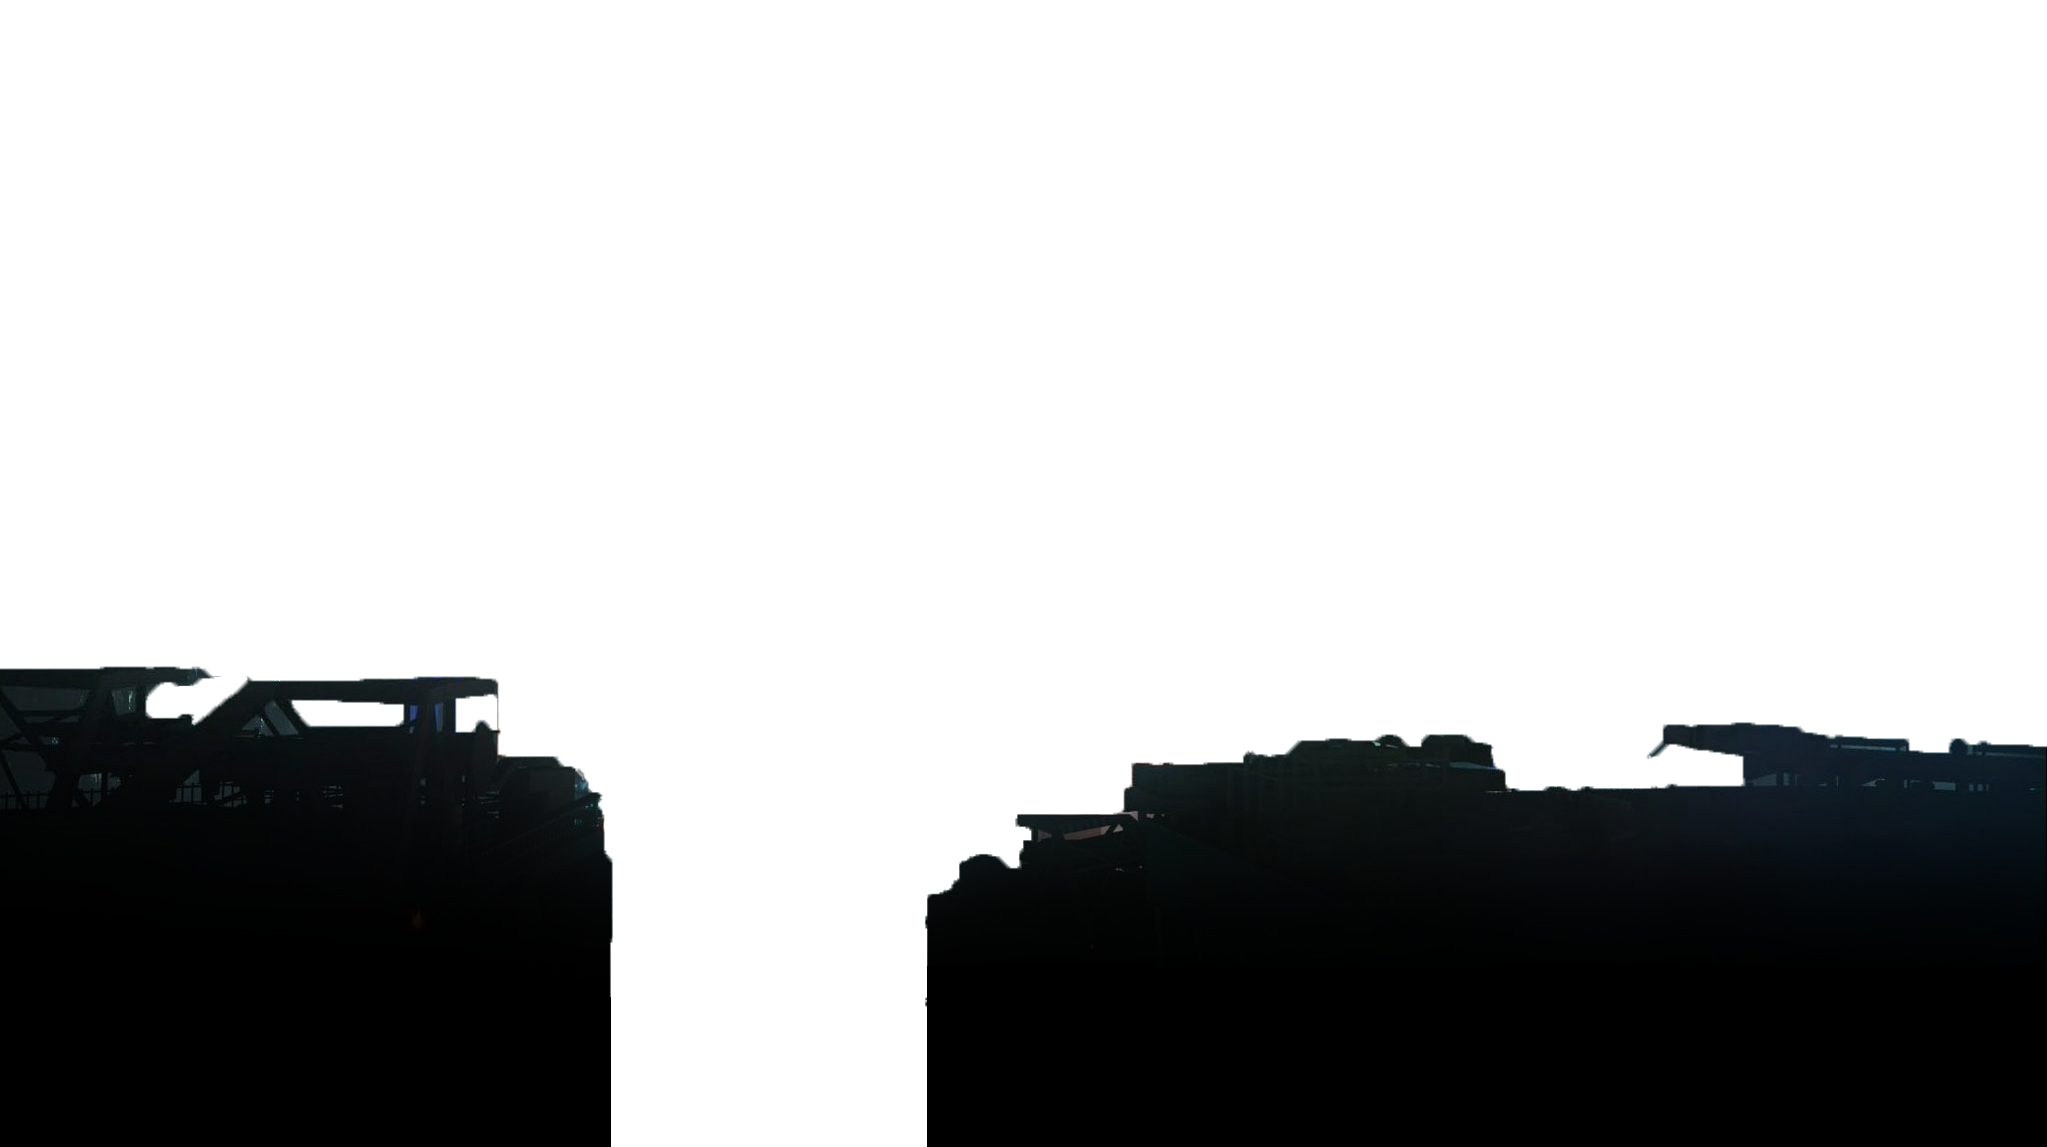
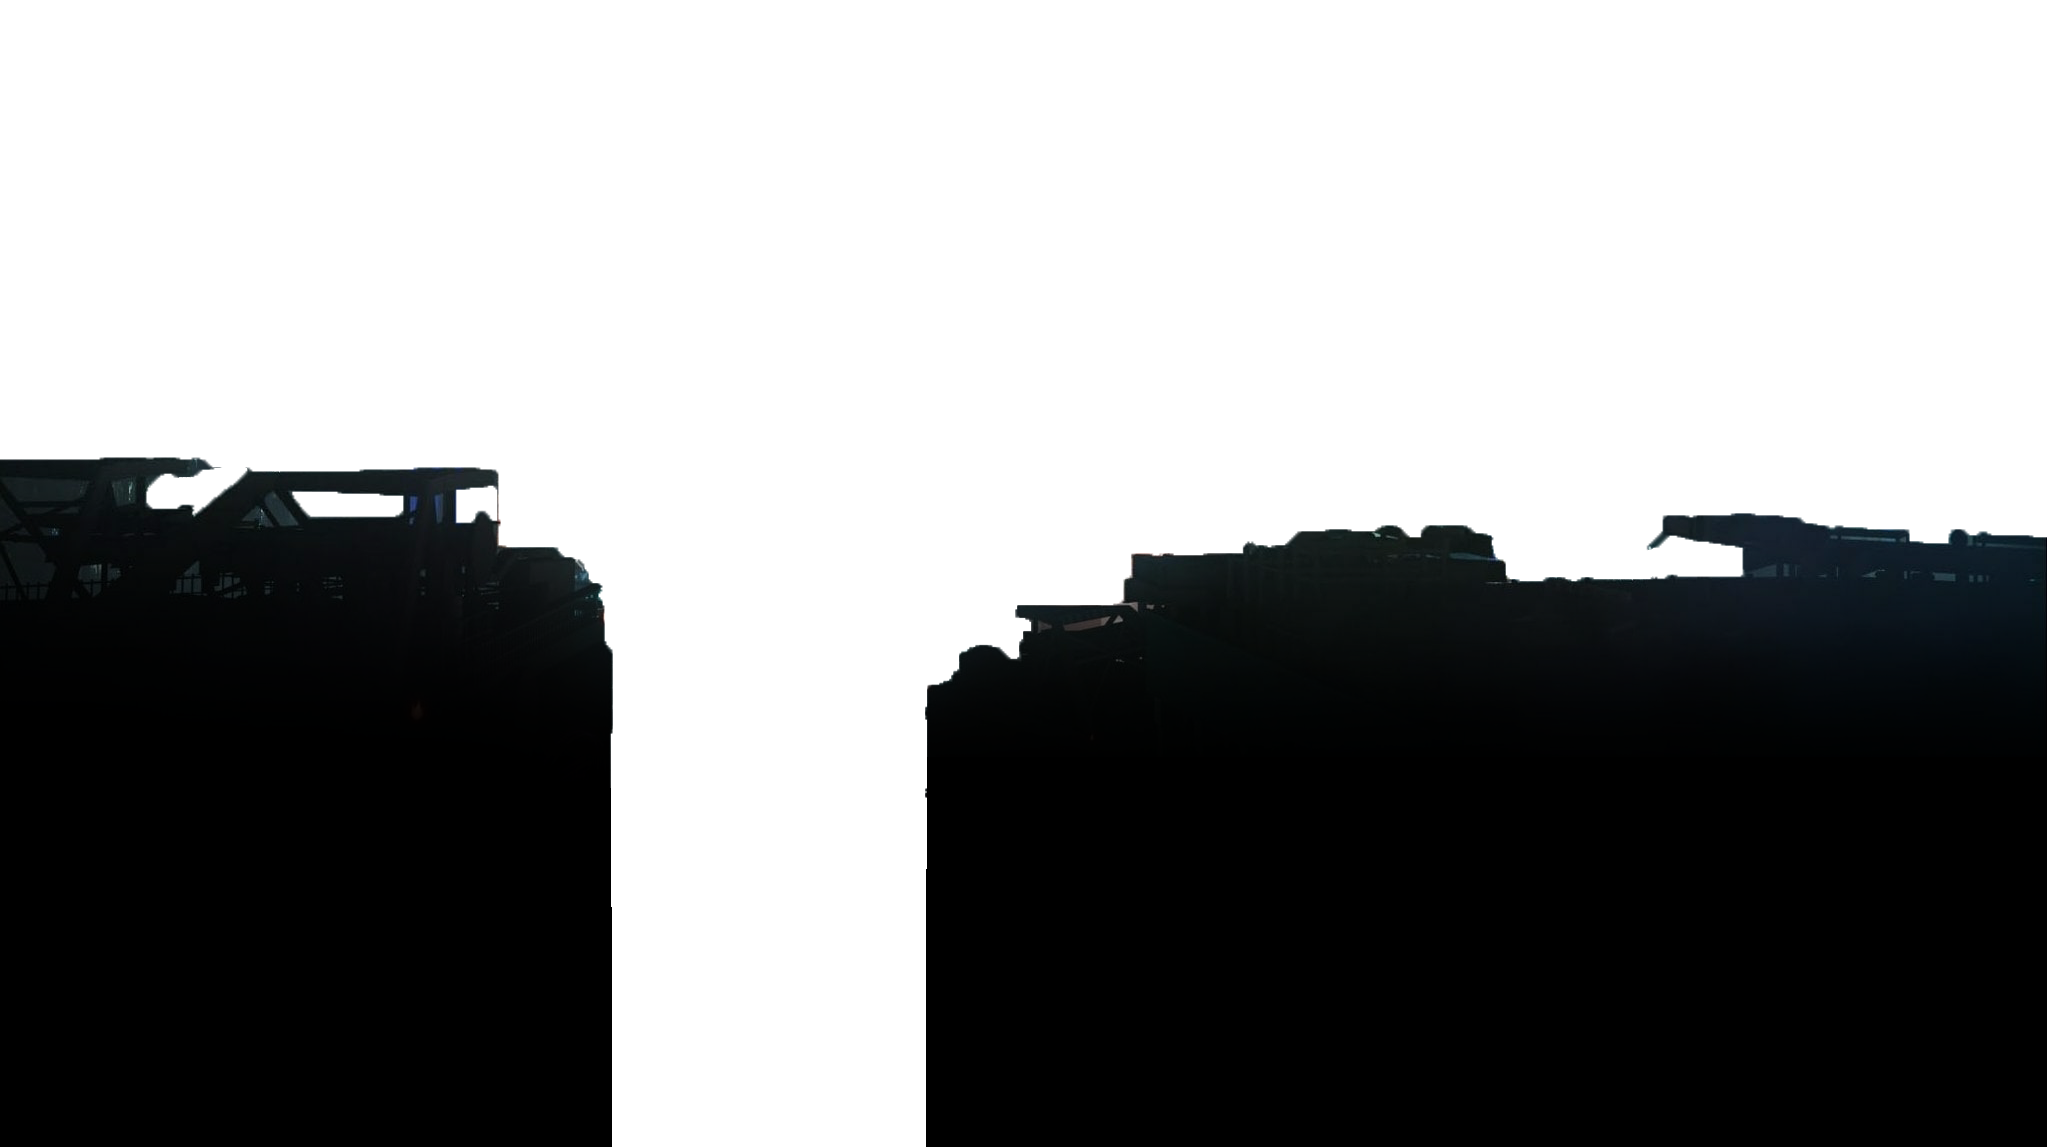
fix image

diff --git a/src/css/style.css b/src/css/style.css
@@ -291,7 +291,7 @@ footer {
       background-image: url(/image/bg_2.png);
       z-index: 5; }
     .container__home .background:nth-child(5) {
-      background-image: url(/image/bg_11.png);
+      background-image: url(/image/bg_1.png);
       z-index: 6;
       transform: translateY(20rem); }
   .container__home .home__btn {

diff --git a/src/sass/_home.scss b/src/sass/_home.scss
@@ -68,7 +68,7 @@
     }
 
     &:nth-child(5) {
-      background-image: url(/image/bg_11.png);
+      background-image: url(/image/bg_1.png);
       z-index: 6;
       transform: translateY(20rem);
     }
